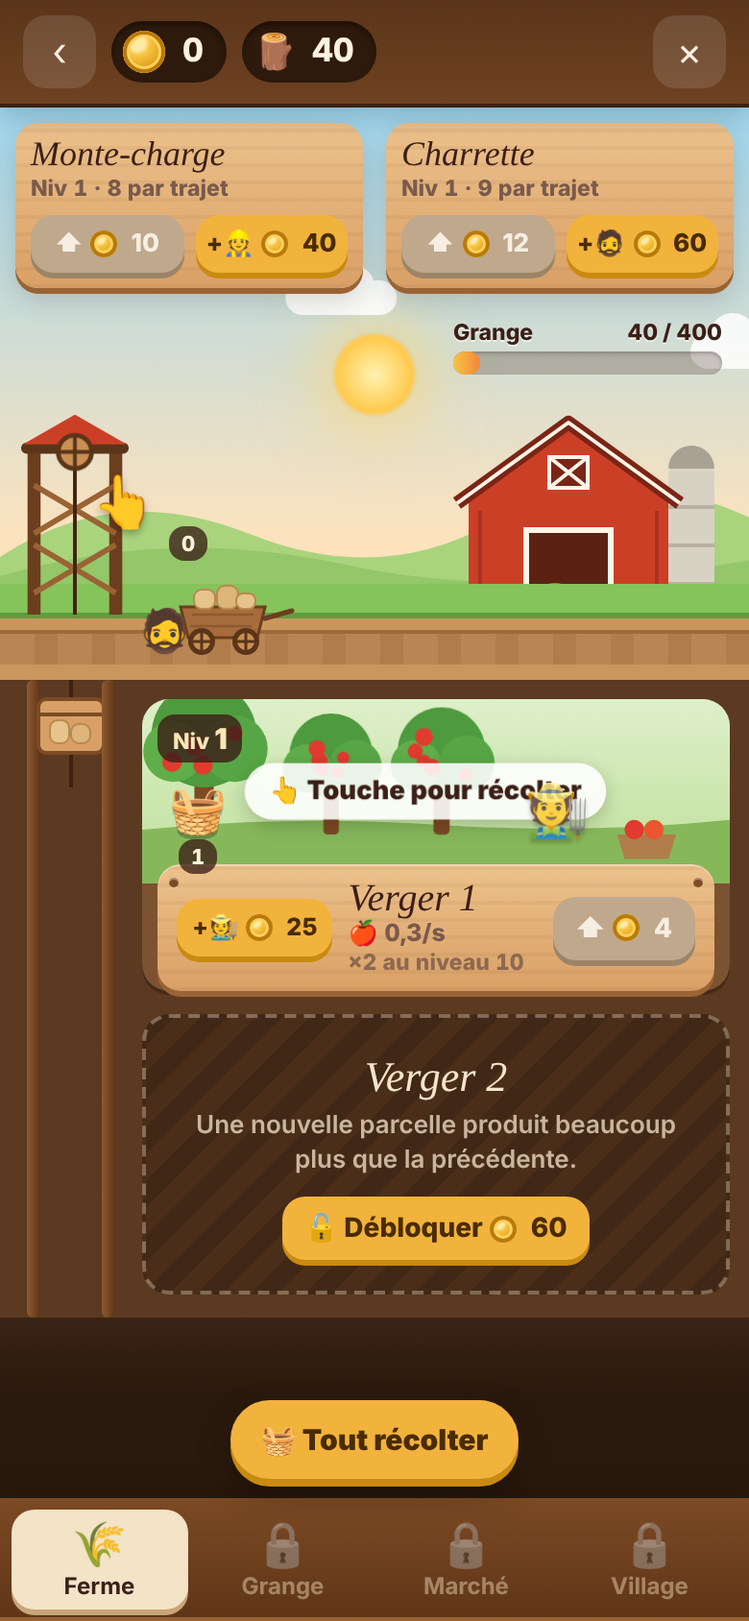
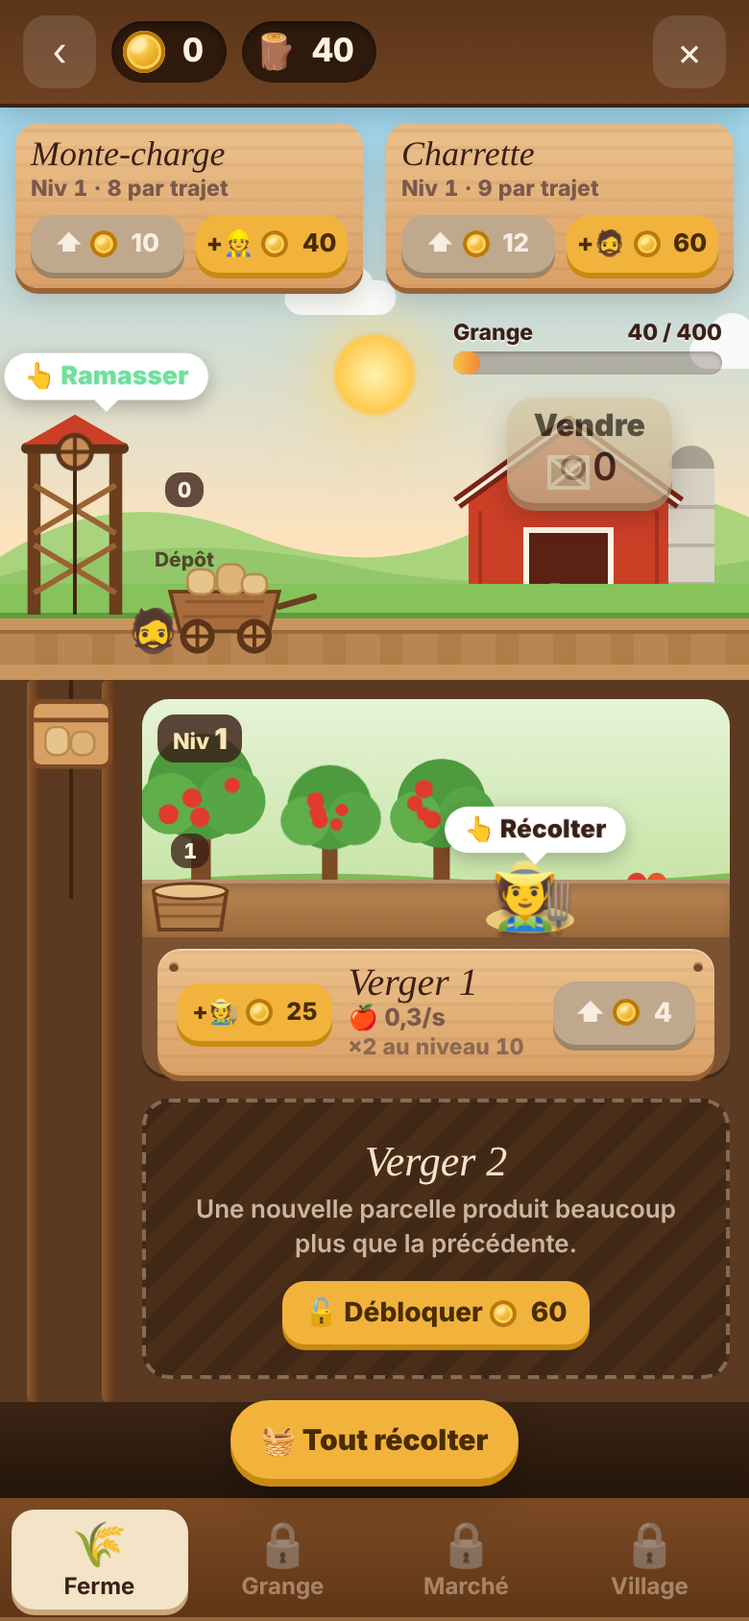
Le Baron v2 : animations de la ferme plus lisibles (chemin dans chaque champ, panier contre le monte-charge, barre de récolte, bulles Récolter / Ramasser / Livrer, produits qui volent d'un poste à l'autre)
Claude-Session: https://claude.ai/code/session_016SqHKL96d9NyDZuzEYmYJY

diff --git a/baron.js b/baron.js
@@ -533,13 +533,6 @@ const STYLE = `
 @keyframes b2-fly{0%{transform:translate(0,0) scale(.6);opacity:0}15%{transform:translate(0,-28px) scale(1.1);opacity:1}100%{transform:translate(var(--dx),var(--dy)) scale(.7);opacity:.9}}
 .b2-float{position:fixed;z-index:95;transform:translateX(-50%);font:900 18px var(--round);color:#fff;text-shadow:0 2px 0 var(--up2),0 0 8px rgba(0,0,0,.25);pointer-events:none;animation:b2-up 1.05s ease forwards}
 .b2-float.small{font-size:14px;color:#FFF3DE;text-shadow:0 1px 0 rgba(0,0,0,.5),0 0 6px rgba(0,0,0,.35)}
-.b2-wk{position:absolute;top:44px;left:66%;width:30px;margin-left:-15px;pointer-events:none;z-index:2;text-align:center}
-.b2-wk .who{display:block;font-size:27px;line-height:1;filter:drop-shadow(0 2px 1px rgba(0,0,0,.25))}
-.b2-wk .carry{position:absolute;left:50%;top:-16px;transform:translateX(-50%);font-size:17px;display:none}
-.b2-wk.go .carry{display:block}
-.b2-wk.work .who{animation:b2-dig .45s ease-in-out infinite alternate;transform-origin:50% 100%}
-.b2-wk.go .who,.b2-wk.back .who{animation:b2-walk .3s ease-in-out infinite alternate}
-.b2-wk.idle{opacity:.85}
 @keyframes b2-dig{to{transform:rotate(-14deg) translateY(2px)}}
 @keyframes b2-walk{to{transform:translateY(-3px)}}
 .b2-float.gold{color:#FFE08A;text-shadow:0 2px 0 #9B6700}
@@ -598,7 +591,7 @@ const STYLE = `
 @keyframes b2-blink{50%{opacity:.55}}
 .b2-glab{display:flex;justify-content:space-between;font:800 11.5px var(--round);color:var(--ink);margin-bottom:3px;text-shadow:0 1px 0 rgba(255,255,255,.6)}
 .b2-cartlane{position:absolute;left:74px;right:118px;bottom:12px;height:50px;padding:0!important;z-index:1}
-.b2-cart{position:absolute;left:18px;bottom:0;width:62px;will-change:transform}
+.b2-cart{position:absolute;left:12px;bottom:0;width:80px;will-change:transform}
 .b2-cart .ld{position:absolute;left:50%;top:-20px;transform:translateX(-50%);background:var(--ink);color:#FFE6B8;border-radius:7px;padding:1px 6px;font:900 11.5px var(--round);transition:opacity .2s;white-space:nowrap}
 .b2-cart .pusher{position:absolute;left:-20px;bottom:2px;font-size:22px;line-height:1}
 .b2-cart.back .pusher{left:auto;right:-20px}
@@ -610,7 +603,8 @@ const STYLE = `
 
 @keyframes b2-spin{to{transform:rotate(360deg)}}
 
-.b2-quai{position:absolute;left:70px;bottom:60px;width:56px;text-align:center;pointer-events:none;z-index:2}
+.b2-quai{position:absolute;left:68px;bottom:56px;width:56px;text-align:center;pointer-events:none;z-index:2}
+.b2-quai small{display:block;font:800 10.5px var(--round);color:var(--ink);opacity:.75;margin-top:1px}
 .b2-quai .sacks{display:flex;flex-wrap:wrap-reverse;justify-content:center;gap:1px;min-height:18px}
 .b2-quai .sk{width:13px;height:11px;border-radius:5px 5px 4px 4px;background:#E7C48B;box-shadow:inset 0 -2px 0 #C79B5C}
 .b2-tag{display:inline-block;background:rgba(59,31,23,.78);color:#FFF3DE;border-radius:8px;padding:2px 6px;font:800 11px var(--round);font-variant-numeric:tabular-nums}
@@ -659,9 +653,6 @@ const STYLE = `
 .b2-tower svg{display:block;width:100%}
 .b2-tower .pulley{transform-box:fill-box;transform-origin:center;animation:b2-spin 1.4s linear infinite}
 .b2-tower.idle .pulley{animation-play-state:paused}
-.b2-hand{position:absolute;font-size:28px;line-height:1;pointer-events:none;filter:drop-shadow(0 2px 2px rgba(0,0,0,.3));animation:b2-tap 1.1s ease-in-out infinite;z-index:4}
-.b2-tower .b2-hand{right:-14px;top:30px}
-.b2-cartlane .b2-hand{left:22px;top:-20px}
 @keyframes b2-tap{0%,100%{transform:translateY(0)}50%{transform:translateY(7px) scale(.92)}}
 .b2-plot .b2-sign .sp{cursor:pointer}
 .b2-stat > div{display:flex;align-items:baseline;gap:8px;padding:8px 0;border-bottom:1px solid rgba(59,31,23,.1);font:700 14px var(--round);font-variant-numeric:tabular-nums}
@@ -682,22 +673,43 @@ const STYLE = `
 .b2-rail::before,.b2-rail::after{content:"";position:absolute;top:0;bottom:0;width:7px;background:linear-gradient(90deg,#8C5A30,#5E3517);border-radius:3px}
 .b2-rail::before{left:2px}.b2-rail::after{right:2px}
 .b2-rail .rope{position:absolute;left:24px;top:0;width:2px;height:var(--rope,40px);background:#3E220F}
-.b2-cab{position:absolute;left:6px;top:4px;width:38px;height:36px;will-change:transform}
+.b2-cab{position:absolute;left:2px;top:4px;width:46px;height:44px;will-change:transform;z-index:2}
 .b2-cab .ld{position:absolute;left:50%;top:-16px;transform:translateX(-50%);background:var(--ink);color:#FFE6B8;border-radius:7px;padding:1px 5px;font:900 11px var(--round);transition:opacity .2s;white-space:nowrap;z-index:2}
 
 .b2-cab svg{display:block;width:100%}
 .b2-elev{margin:0 0 10px -62px}
 .b2-plot{position:relative;margin-bottom:12px;border-radius:14px;background:var(--soil,#8A5A33);box-shadow:inset 0 2px 0 rgba(255,255,255,.08),0 2px 0 rgba(0,0,0,.25)}
-.b2-plot .art{display:block;width:100%;height:96px;border-radius:14px 14px 0 0;overflow:hidden}
+.b2-plot .art{position:relative;display:block;width:100%;height:124px;border-radius:14px 14px 0 0;overflow:hidden}
 .b2-plot .art svg{display:block;width:100%;height:100%}
 .b2-plot.idle .art svg *{animation-play-state:paused!important}
-.b2-plot .b2-sign{margin:-10px 8px 8px}
-.b2-plot .pend{position:absolute;left:4px;top:46px;width:50px;text-align:center;z-index:3;pointer-events:none}
-.b2-plot .pend .b2-tag.warn{animation:b2-blink 1s infinite}
-.b2-plot .pend .bag{font-size:24px;line-height:1;filter:drop-shadow(0 2px 0 rgba(0,0,0,.25))}
-.b2-plot .tapme{position:absolute;inset:0 0 auto 0;height:96px;display:grid;place-items:center start;padding-left:58px;pointer-events:none}
-.b2-plot .tapme span{background:rgba(255,255,255,.88);border-radius:999px;padding:6px 12px;font:900 13px var(--round);color:var(--ink);box-shadow:0 3px 10px rgba(0,0,0,.2);animation:b2-hint 1.4s ease-in-out infinite}
+.b2-plot .b2-sign{margin:6px 8px 8px}
 @keyframes b2-hint{50%{transform:scale(1.07)}}
+.b2-path{position:absolute;left:0;right:0;bottom:0;height:30px;background:linear-gradient(#B98552,#9C6A3B);border-top:2px solid rgba(255,255,255,.25);box-shadow:inset 0 3px 4px rgba(0,0,0,.15)}
+.b2-plot .pend{position:absolute;left:2px;bottom:2px;width:46px;text-align:center;z-index:3;pointer-events:none}
+.b2-plot .pend svg{display:block;width:44px;margin:0 auto}
+.b2-plot .pend .b2-tag{position:relative;top:-2px}
+.b2-plot .pend .b2-tag.warn{animation:b2-blink 1s infinite}
+.b2-wk{position:absolute;bottom:4px;left:66%;width:40px;margin-left:-20px;pointer-events:none;z-index:4;text-align:center}
+.b2-wk .who{display:block;font-size:34px;line-height:1;filter:drop-shadow(0 3px 1px rgba(0,0,0,.3))}
+.b2-wk .carry{position:absolute;left:50%;top:-20px;transform:translateX(-50%);font-size:24px;display:none;filter:drop-shadow(0 2px 1px rgba(0,0,0,.3))}
+.b2-wk.go .carry{display:block}
+.b2-wk.go .who{transform:scaleX(1)}
+.b2-wk.back .who{transform:scaleX(-1)}
+.b2-wk .bar{position:absolute;left:2px;right:2px;top:-12px;height:7px;border-radius:9px;background:rgba(59,31,23,.45);overflow:hidden;opacity:0;transition:opacity .15s}
+.b2-wk .bar i{display:block;height:100%;width:0;background:linear-gradient(90deg,#9BE07A,#3FAF4E);border-radius:9px}
+.b2-wk.work .bar{opacity:1}
+.b2-wk.work .who{animation:b2-dig .4s ease-in-out infinite alternate;transform-origin:50% 100%}
+.b2-wk.go .who,.b2-wk.back .who{animation:b2-walk .28s ease-in-out infinite alternate}
+.b2-call{display:none;position:absolute;left:50%;bottom:calc(100% + 6px);transform:translateX(-50%);white-space:nowrap;background:#fff;color:var(--ink);border-radius:999px;padding:4px 10px;font:900 13px var(--round);box-shadow:0 3px 10px rgba(0,0,0,.25);animation:b2-hint 1.2s ease-in-out infinite;pointer-events:none;z-index:6}
+.b2-call::after{content:"";position:absolute;left:50%;top:100%;margin-left:-6px;border:6px solid transparent;border-top-color:#fff}
+.b2-wk.tap .b2-call{display:block}
+.b2-wk.tap .who{animation:b2-hint 1.2s ease-in-out infinite}
+.b2-wk.tap::before{content:"";position:absolute;left:50%;bottom:-2px;width:46px;height:14px;margin-left:-23px;border-radius:50%;background:rgba(255,224,138,.8);animation:b2-blink 1.1s infinite}
+.b2-call.up{display:block}
+.b2-tower .b2-call{left:50%;bottom:auto;top:-30px}
+.b2-cart .b2-call{bottom:calc(100% + 18px)}
+.b2-good{position:fixed;z-index:94;font-size:20px;pointer-events:none;animation:b2-good .8s cubic-bezier(.4,0,.3,1) forwards}
+@keyframes b2-good{0%{transform:translate(0,0) scale(.7);opacity:0}15%{opacity:1;transform:translate(0,-10px) scale(1.1)}100%{transform:translate(var(--dx),var(--dy)) scale(.8);opacity:.6}}
 .b2-plvl{position:absolute;left:8px;top:8px;background:rgba(59,31,23,.82);color:#FFE6B8;border-radius:9px;padding:3px 8px;font:800 11.5px var(--round);pointer-events:none}
 .b2-plvl b{font-size:15px;font-weight:900}
 .b2-plot .runbar{position:absolute;left:0;top:0;height:4px;border-radius:14px 0 0 0;background:#FFE08A;transition:width .25s linear}
@@ -987,6 +999,7 @@ const TOWER = `<svg viewBox="0 0 60 110" aria-hidden="true"><path d="M8 20 L8 11
   <path d="M8 40 L52 66 M52 40 L8 66 M8 72 L52 98 M52 72 L8 98" stroke="#9A6334" stroke-width="3"/><path d="M4 20 H56" stroke="#5B3519" stroke-width="6" stroke-linecap="round"/>
   <path d="M2 18 L30 2 L58 18Z" fill="#CC3F27"/><path d="M30 28 V110" stroke="#3E220F" stroke-width="2"/>
   <g class="pulley"><circle cx="30" cy="22" r="9" fill="#C98F55" stroke="#5B3519" stroke-width="2.5"/><path d="M30 14 V30 M22 22 H38" stroke="#5B3519" stroke-width="2"/></g></svg>`;
+const CRATE = `<svg viewBox="0 0 44 30" aria-hidden="true"><path d="M3 8 h38 l-3 20 h-32z" fill="#B07D4A" stroke="#6B3E1E" stroke-width="2"/><path d="M5 15 h34 M6 21 h32" stroke="#8C5A30" stroke-width="1.6"/><ellipse cx="22" cy="8" rx="19" ry="4" fill="#E7C48B" stroke="#6B3E1E" stroke-width="1.5"/></svg>`;
 const CABIN = `<svg viewBox="0 0 38 36" aria-hidden="true"><path d="M19 0 v6" stroke="#3E220F" stroke-width="2"/><rect x="2" y="6" width="34" height="28" rx="4" fill="#D9A066" stroke="#7C4A24" stroke-width="2"/><path d="M2 14 h34" stroke="#7C4A24" stroke-width="2"/><rect x="8" y="17" width="10" height="12" rx="4" fill="#E7C48B" stroke="#B88A50"/><rect x="19" y="19" width="10" height="10" rx="4" fill="#DDB57A" stroke="#B88A50"/></svg>`;
 function ovenArt(hot){
   return `<svg viewBox="0 0 120 100" aria-hidden="true"><rect x="52" y="0" width="16" height="30" fill="#8C7B6B"/><rect x="49" y="0" width="22" height="5" fill="#6E5F51"/>
@@ -1078,7 +1091,7 @@ function loop(){
 let geo = null;
 function measure(){
   const sh = wrapEl && wrapEl.querySelector(".b2-shaft"); if (!sh){ geo = null; return; }
-  const ys = [0]; wrapEl.querySelectorAll(".b2-plot").forEach(el => ys.push(el.offsetTop + 22));
+  const ys = [0]; wrapEl.querySelectorAll(".b2-plot").forEach(el => ys.push(el.offsetTop + 80));
   const lane = wrapEl.querySelector(".b2-cartlane");
   geo = { ys, lane: lane ? Math.max(40, lane.clientWidth - 72) : 100 };
   const rope = wrapEl.querySelector(".b2-rail .rope"); if (rope) rope.style.height = (ys[ys.length - 1] + 24) + "px";
@@ -1088,9 +1101,11 @@ function animate(){
   const f = S.farms[S.cur]; if (!f) return;
   f.parcels.forEach((p, i) => {
     const w = wrapEl.querySelector(`[data-wk="${i}"]`); if (!w) return;
-    const k = Math.min(1, p.t / BAL.walk);
-    const x = p.ph === "go" ? 70 - 52 * k : p.ph === "back" ? 18 + 52 * k : 70;
-    w.style.left = x + "%"; const cls = "b2-wk " + p.ph; if (w.className !== cls) w.className = cls;
+    const k = Math.min(1, p.t / BAL.walk), sm = k * k * (3 - 2 * k);
+    const x = p.ph === "go" ? 66 - 44 * sm : p.ph === "back" ? 22 + 44 * sm : 66;
+    w.style.left = x + "%";
+    const cls = "b2-wk " + p.ph + (p.ph === "idle" && !p.mgr ? " tap" : "") + (p.mgr ? " mgr" : ""); if (w.className !== cls) w.className = cls;
+    const bar = w.firstElementChild.firstElementChild; if (bar) bar.style.width = (p.ph === "work" ? Math.min(100, p.t / BAL.work * 100) : 0) + "%";
   });
   const e = f.elev, cab = wrapEl.querySelector(".b2-cab");
   if (cab){
@@ -1111,13 +1126,27 @@ function pop(el, text, key){
   const t = now(); if (lastPop[key] && t - lastPop[key] < 700) return; lastPop[key] = t;
   floatText(el, text, "small");
 }
+function flyGoods(from, to, e, n){
+  try{
+    if (!from || !to) return;
+    const a = from.getBoundingClientRect(), b = to.getBoundingClientRect();
+    if (a.bottom < 0 || a.top > innerHeight) return;
+    for (let j = 0; j < (n || 3); j++){
+      const g = document.createElement("span"); g.className = "b2-good"; g.textContent = e;
+      g.style.left = (a.left + a.width / 2 - 10) + "px"; g.style.top = (a.top + a.height / 2 - 10) + "px";
+      g.style.setProperty("--dx", (b.left + b.width / 2 - a.left - a.width / 2) + "px"); g.style.setProperty("--dy", (b.top + b.height / 2 - a.top - a.height / 2) + "px");
+      g.style.animationDelay = (j * 90) + "ms"; document.body.appendChild(g); setTimeout(() => g.remove(), 900 + j * 90);
+    }
+  }catch(_){}
+}
 function showEvents(ev){
   ev.forEach(x => {
     if (x.key !== S.cur) return;
-    if (x.k === "drop"){ const el = wrapEl.querySelector(`[data-plot="${x.i}"] .pend`); if (el){ pop(el, "+" + fmtN(x.amt, 1), "d" + x.i); bounce(el.querySelector(".bag")); } }
-    if (x.k === "lift"){ const el = wrapEl.querySelector(".b2-cab"); if (el) pop(el, "+" + fmtN(x.amt, 1), "l"); }
-    if (x.k === "top"){ const el = wrapEl.querySelector(".b2-quai"); if (el) pop(el, "+" + fmtN(x.amt, 1), "t"); }
-    if (x.k === "barn"){ const el = wrapEl.querySelector(".b2-barn"); if (el){ pop(el, "+" + fmtN(x.amt, 1) + " " + P[x.key].e, "b"); bounce(el); } }
+    const e = P[x.key].e;
+    if (x.k === "drop"){ const el = wrapEl.querySelector(`[data-plot="${x.i}"] .pend`); if (el){ pop(el, "+" + fmtN(x.amt, 1), "d" + x.i); bounce(el.querySelector("svg")); } }
+    if (x.k === "lift"){ const from = wrapEl.querySelector(`[data-plot="${x.i}"] .pend`), cab = wrapEl.querySelector(".b2-cab"); flyGoods(from, cab, e, 3); if (cab) pop(cab, "+" + fmtN(x.amt, 1), "l"); }
+    if (x.k === "top"){ const cab = wrapEl.querySelector(".b2-cab"), q = wrapEl.querySelector(".b2-quai"); flyGoods(wrapEl.querySelector(".b2-tower"), q, e, 3); if (q) pop(q, "+" + fmtN(x.amt, 1), "t"); }
+    if (x.k === "barn"){ const el = wrapEl.querySelector(".b2-barn"); flyGoods(wrapEl.querySelector(".b2-cart"), el, e, 4); if (el){ pop(el, "+" + fmtN(x.amt, 1) + " " + e, "b"); bounce(el); } }
   });
 }
 document.addEventListener("visibilitychange", () => { if (document.hidden && S && wrapEl) save(true); else if (!document.hidden && S && wrapEl){ lastTick = now(); } });
@@ -1160,7 +1189,6 @@ function live(force){
       const el = wrapEl.querySelector(`[data-plot="${i}"]`); if (!el) return;
       el.classList.toggle("idle", p.ph === "idle");
       const pe = el.querySelector("[data-pend]"); if (pe) pe.textContent = fmtN(p.pend);
-      const tm = el.querySelector(".tapme"); if (tm) tm.style.display = p.ph === "idle" && !p.mgr ? "" : "none";
       const full = p.pend >= BAL.pendCap(BAL.parcelRate(i, p.lvl) * (f.boost > t ? 2 : 1)) * .98;
       pe && pe.classList.toggle("warn", full);
     });
@@ -1233,9 +1261,10 @@ function farmHTML(){
     const pu = upCost("parcel", f, i), rate = BAL.parcelRate(i, p.lvl) * r.boost;
     const next = BX.MILES.find(m => m > p.lvl);
     return `<div class="b2-plot" data-plot="${i}" style="--soil:${depth(i)}">
-      <div class="pend"><div class="bag">🧺</div><span class="b2-tag" data-pend>${fmtN(p.pend)}</span></div>
-      <div class="art" data-a="tap-parcel" data-i="${i}">${plotArt(key, i, p.lvl)}<div class="b2-wk ${p.ph}" data-wk="${i}"><span class="carry">${pr.e}</span><span class="who">${MGR.parcel}</span></div></div><span class="b2-plvl">Niv <b>${p.lvl}</b></span>
-      <div class="tapme"><span>👆 Touche pour récolter</span></div>
+      <div class="art" data-a="tap-parcel" data-i="${i}">${plotArt(key, i, p.lvl)}<div class="b2-path"></div>
+        <div class="pend"><span class="b2-tag" data-pend>${fmtN(p.pend)}</span>${CRATE}</div>
+        <div class="b2-wk ${p.ph}" data-wk="${i}"><div class="bar"><i></i></div><span class="carry">${pr.e}</span><span class="who">${MGR.parcel}</span><span class="b2-call">👆 Récolter</span></div>
+      </div><span class="b2-plvl">Niv <b>${p.lvl}</b></span>
       <div class="b2-sign"><div class="row">
         ${seatHTML("parcel", p.mgr, BX.nice(BAL.parcelMgr(i)), i)}
         <div class="sp" data-a="station" data-k="parcel" data-i="${i}"><h3>${esc(pr.short)} ${i + 1}</h3>
@@ -1258,9 +1287,9 @@ function farmHTML(){
       <div class="b2-barn" data-a="tab" data-v="barn" data-n="-1"></div>
       <button class="b2-sellbtn" data-a="quick-sell" aria-label="Vendre ta récolte au village"><span class="l">Vendre</span><span class="v">${COIN}<b data-live="sellv">0</b></span></button>
       <div class="b2-ground"></div><div class="b2-road"></div>
-      <button class="b2-tower" data-a="tap-elev" aria-label="Faire monter le monte-charge">${TOWER}<span class="b2-hand" data-hint="elev">👆</span></button>
-      <div class="b2-quai"><div class="sacks" data-n="-1"></div><span class="b2-tag" data-live="quai">${fmtN(f.quai)}</span></div>
-      <button class="b2-cartlane" data-a="tap-cart" aria-label="Faire rouler la charrette"><div class="b2-cart"><span class="ld">0</span>${CART}<span class="pusher">${MGR.cart}</span></div><span class="b2-hand" data-hint="cart">👆</span></button>
+      <button class="b2-tower" data-a="tap-elev" aria-label="Faire monter le monte-charge">${TOWER}<span class="b2-call up" data-hint="elev">👆 Ramasser</span></button>
+      <div class="b2-quai"><span class="b2-tag" data-live="quai">${fmtN(f.quai)}</span><div class="sacks" data-n="-1"></div><small>Dépôt</small></div>
+      <button class="b2-cartlane" data-a="tap-cart" aria-label="Faire rouler la charrette"><div class="b2-cart"><span class="ld">0</span>${CART}<span class="pusher">${MGR.cart}</span><span class="b2-call up" data-hint="cart">👆 Livrer</span></div></button>
     </div>
     ${farmsK.length > 1 ? `<div class="b2-farmsw">${farmsK.map(k => `<button class="${k === key ? "on" : ""}" data-a="farm" data-k="${k}">${P[k].e} ${P[k].label}</button>`).join("")}</div>` : ""}
     ${tip}

diff --git a/.github/baron-src/part-c.js b/.github/baron-src/part-c.js
@@ -31,13 +31,6 @@ const STYLE = `
 @keyframes b2-fly{0%{transform:translate(0,0) scale(.6);opacity:0}15%{transform:translate(0,-28px) scale(1.1);opacity:1}100%{transform:translate(var(--dx),var(--dy)) scale(.7);opacity:.9}}
 .b2-float{position:fixed;z-index:95;transform:translateX(-50%);font:900 18px var(--round);color:#fff;text-shadow:0 2px 0 var(--up2),0 0 8px rgba(0,0,0,.25);pointer-events:none;animation:b2-up 1.05s ease forwards}
 .b2-float.small{font-size:14px;color:#FFF3DE;text-shadow:0 1px 0 rgba(0,0,0,.5),0 0 6px rgba(0,0,0,.35)}
-.b2-wk{position:absolute;top:44px;left:66%;width:30px;margin-left:-15px;pointer-events:none;z-index:2;text-align:center}
-.b2-wk .who{display:block;font-size:27px;line-height:1;filter:drop-shadow(0 2px 1px rgba(0,0,0,.25))}
-.b2-wk .carry{position:absolute;left:50%;top:-16px;transform:translateX(-50%);font-size:17px;display:none}
-.b2-wk.go .carry{display:block}
-.b2-wk.work .who{animation:b2-dig .45s ease-in-out infinite alternate;transform-origin:50% 100%}
-.b2-wk.go .who,.b2-wk.back .who{animation:b2-walk .3s ease-in-out infinite alternate}
-.b2-wk.idle{opacity:.85}
 @keyframes b2-dig{to{transform:rotate(-14deg) translateY(2px)}}
 @keyframes b2-walk{to{transform:translateY(-3px)}}
 .b2-float.gold{color:#FFE08A;text-shadow:0 2px 0 #9B6700}
@@ -96,7 +89,7 @@ const STYLE = `
 @keyframes b2-blink{50%{opacity:.55}}
 .b2-glab{display:flex;justify-content:space-between;font:800 11.5px var(--round);color:var(--ink);margin-bottom:3px;text-shadow:0 1px 0 rgba(255,255,255,.6)}
 .b2-cartlane{position:absolute;left:74px;right:118px;bottom:12px;height:50px;padding:0!important;z-index:1}
-.b2-cart{position:absolute;left:18px;bottom:0;width:62px;will-change:transform}
+.b2-cart{position:absolute;left:12px;bottom:0;width:80px;will-change:transform}
 .b2-cart .ld{position:absolute;left:50%;top:-20px;transform:translateX(-50%);background:var(--ink);color:#FFE6B8;border-radius:7px;padding:1px 6px;font:900 11.5px var(--round);transition:opacity .2s;white-space:nowrap}
 .b2-cart .pusher{position:absolute;left:-20px;bottom:2px;font-size:22px;line-height:1}
 .b2-cart.back .pusher{left:auto;right:-20px}
@@ -108,7 +101,8 @@ const STYLE = `
 
 @keyframes b2-spin{to{transform:rotate(360deg)}}
 
-.b2-quai{position:absolute;left:70px;bottom:60px;width:56px;text-align:center;pointer-events:none;z-index:2}
+.b2-quai{position:absolute;left:68px;bottom:56px;width:56px;text-align:center;pointer-events:none;z-index:2}
+.b2-quai small{display:block;font:800 10.5px var(--round);color:var(--ink);opacity:.75;margin-top:1px}
 .b2-quai .sacks{display:flex;flex-wrap:wrap-reverse;justify-content:center;gap:1px;min-height:18px}
 .b2-quai .sk{width:13px;height:11px;border-radius:5px 5px 4px 4px;background:#E7C48B;box-shadow:inset 0 -2px 0 #C79B5C}
 .b2-tag{display:inline-block;background:rgba(59,31,23,.78);color:#FFF3DE;border-radius:8px;padding:2px 6px;font:800 11px var(--round);font-variant-numeric:tabular-nums}
@@ -157,9 +151,6 @@ const STYLE = `
 .b2-tower svg{display:block;width:100%}
 .b2-tower .pulley{transform-box:fill-box;transform-origin:center;animation:b2-spin 1.4s linear infinite}
 .b2-tower.idle .pulley{animation-play-state:paused}
-.b2-hand{position:absolute;font-size:28px;line-height:1;pointer-events:none;filter:drop-shadow(0 2px 2px rgba(0,0,0,.3));animation:b2-tap 1.1s ease-in-out infinite;z-index:4}
-.b2-tower .b2-hand{right:-14px;top:30px}
-.b2-cartlane .b2-hand{left:22px;top:-20px}
 @keyframes b2-tap{0%,100%{transform:translateY(0)}50%{transform:translateY(7px) scale(.92)}}
 .b2-plot .b2-sign .sp{cursor:pointer}
 .b2-stat > div{display:flex;align-items:baseline;gap:8px;padding:8px 0;border-bottom:1px solid rgba(59,31,23,.1);font:700 14px var(--round);font-variant-numeric:tabular-nums}
@@ -180,22 +171,43 @@ const STYLE = `
 .b2-rail::before,.b2-rail::after{content:"";position:absolute;top:0;bottom:0;width:7px;background:linear-gradient(90deg,#8C5A30,#5E3517);border-radius:3px}
 .b2-rail::before{left:2px}.b2-rail::after{right:2px}
 .b2-rail .rope{position:absolute;left:24px;top:0;width:2px;height:var(--rope,40px);background:#3E220F}
-.b2-cab{position:absolute;left:6px;top:4px;width:38px;height:36px;will-change:transform}
+.b2-cab{position:absolute;left:2px;top:4px;width:46px;height:44px;will-change:transform;z-index:2}
 .b2-cab .ld{position:absolute;left:50%;top:-16px;transform:translateX(-50%);background:var(--ink);color:#FFE6B8;border-radius:7px;padding:1px 5px;font:900 11px var(--round);transition:opacity .2s;white-space:nowrap;z-index:2}
 
 .b2-cab svg{display:block;width:100%}
 .b2-elev{margin:0 0 10px -62px}
 .b2-plot{position:relative;margin-bottom:12px;border-radius:14px;background:var(--soil,#8A5A33);box-shadow:inset 0 2px 0 rgba(255,255,255,.08),0 2px 0 rgba(0,0,0,.25)}
-.b2-plot .art{display:block;width:100%;height:96px;border-radius:14px 14px 0 0;overflow:hidden}
+.b2-plot .art{position:relative;display:block;width:100%;height:124px;border-radius:14px 14px 0 0;overflow:hidden}
 .b2-plot .art svg{display:block;width:100%;height:100%}
 .b2-plot.idle .art svg *{animation-play-state:paused!important}
-.b2-plot .b2-sign{margin:-10px 8px 8px}
-.b2-plot .pend{position:absolute;left:4px;top:46px;width:50px;text-align:center;z-index:3;pointer-events:none}
-.b2-plot .pend .b2-tag.warn{animation:b2-blink 1s infinite}
-.b2-plot .pend .bag{font-size:24px;line-height:1;filter:drop-shadow(0 2px 0 rgba(0,0,0,.25))}
-.b2-plot .tapme{position:absolute;inset:0 0 auto 0;height:96px;display:grid;place-items:center start;padding-left:58px;pointer-events:none}
-.b2-plot .tapme span{background:rgba(255,255,255,.88);border-radius:999px;padding:6px 12px;font:900 13px var(--round);color:var(--ink);box-shadow:0 3px 10px rgba(0,0,0,.2);animation:b2-hint 1.4s ease-in-out infinite}
+.b2-plot .b2-sign{margin:6px 8px 8px}
 @keyframes b2-hint{50%{transform:scale(1.07)}}
+.b2-path{position:absolute;left:0;right:0;bottom:0;height:30px;background:linear-gradient(#B98552,#9C6A3B);border-top:2px solid rgba(255,255,255,.25);box-shadow:inset 0 3px 4px rgba(0,0,0,.15)}
+.b2-plot .pend{position:absolute;left:2px;bottom:2px;width:46px;text-align:center;z-index:3;pointer-events:none}
+.b2-plot .pend svg{display:block;width:44px;margin:0 auto}
+.b2-plot .pend .b2-tag{position:relative;top:-2px}
+.b2-plot .pend .b2-tag.warn{animation:b2-blink 1s infinite}
+.b2-wk{position:absolute;bottom:4px;left:66%;width:40px;margin-left:-20px;pointer-events:none;z-index:4;text-align:center}
+.b2-wk .who{display:block;font-size:34px;line-height:1;filter:drop-shadow(0 3px 1px rgba(0,0,0,.3))}
+.b2-wk .carry{position:absolute;left:50%;top:-20px;transform:translateX(-50%);font-size:24px;display:none;filter:drop-shadow(0 2px 1px rgba(0,0,0,.3))}
+.b2-wk.go .carry{display:block}
+.b2-wk.go .who{transform:scaleX(1)}
+.b2-wk.back .who{transform:scaleX(-1)}
+.b2-wk .bar{position:absolute;left:2px;right:2px;top:-12px;height:7px;border-radius:9px;background:rgba(59,31,23,.45);overflow:hidden;opacity:0;transition:opacity .15s}
+.b2-wk .bar i{display:block;height:100%;width:0;background:linear-gradient(90deg,#9BE07A,#3FAF4E);border-radius:9px}
+.b2-wk.work .bar{opacity:1}
+.b2-wk.work .who{animation:b2-dig .4s ease-in-out infinite alternate;transform-origin:50% 100%}
+.b2-wk.go .who,.b2-wk.back .who{animation:b2-walk .28s ease-in-out infinite alternate}
+.b2-call{display:none;position:absolute;left:50%;bottom:calc(100% + 6px);transform:translateX(-50%);white-space:nowrap;background:#fff;color:var(--ink);border-radius:999px;padding:4px 10px;font:900 13px var(--round);box-shadow:0 3px 10px rgba(0,0,0,.25);animation:b2-hint 1.2s ease-in-out infinite;pointer-events:none;z-index:6}
+.b2-call::after{content:"";position:absolute;left:50%;top:100%;margin-left:-6px;border:6px solid transparent;border-top-color:#fff}
+.b2-wk.tap .b2-call{display:block}
+.b2-wk.tap .who{animation:b2-hint 1.2s ease-in-out infinite}
+.b2-wk.tap::before{content:"";position:absolute;left:50%;bottom:-2px;width:46px;height:14px;margin-left:-23px;border-radius:50%;background:rgba(255,224,138,.8);animation:b2-blink 1.1s infinite}
+.b2-call.up{display:block}
+.b2-tower .b2-call{left:50%;bottom:auto;top:-30px}
+.b2-cart .b2-call{bottom:calc(100% + 18px)}
+.b2-good{position:fixed;z-index:94;font-size:20px;pointer-events:none;animation:b2-good .8s cubic-bezier(.4,0,.3,1) forwards}
+@keyframes b2-good{0%{transform:translate(0,0) scale(.7);opacity:0}15%{opacity:1;transform:translate(0,-10px) scale(1.1)}100%{transform:translate(var(--dx),var(--dy)) scale(.8);opacity:.6}}
 .b2-plvl{position:absolute;left:8px;top:8px;background:rgba(59,31,23,.82);color:#FFE6B8;border-radius:9px;padding:3px 8px;font:800 11.5px var(--round);pointer-events:none}
 .b2-plvl b{font-size:15px;font-weight:900}
 .b2-plot .runbar{position:absolute;left:0;top:0;height:4px;border-radius:14px 0 0 0;background:#FFE08A;transition:width .25s linear}
@@ -485,6 +497,7 @@ const TOWER = `<svg viewBox="0 0 60 110" aria-hidden="true"><path d="M8 20 L8 11
   <path d="M8 40 L52 66 M52 40 L8 66 M8 72 L52 98 M52 72 L8 98" stroke="#9A6334" stroke-width="3"/><path d="M4 20 H56" stroke="#5B3519" stroke-width="6" stroke-linecap="round"/>
   <path d="M2 18 L30 2 L58 18Z" fill="#CC3F27"/><path d="M30 28 V110" stroke="#3E220F" stroke-width="2"/>
   <g class="pulley"><circle cx="30" cy="22" r="9" fill="#C98F55" stroke="#5B3519" stroke-width="2.5"/><path d="M30 14 V30 M22 22 H38" stroke="#5B3519" stroke-width="2"/></g></svg>`;
+const CRATE = `<svg viewBox="0 0 44 30" aria-hidden="true"><path d="M3 8 h38 l-3 20 h-32z" fill="#B07D4A" stroke="#6B3E1E" stroke-width="2"/><path d="M5 15 h34 M6 21 h32" stroke="#8C5A30" stroke-width="1.6"/><ellipse cx="22" cy="8" rx="19" ry="4" fill="#E7C48B" stroke="#6B3E1E" stroke-width="1.5"/></svg>`;
 const CABIN = `<svg viewBox="0 0 38 36" aria-hidden="true"><path d="M19 0 v6" stroke="#3E220F" stroke-width="2"/><rect x="2" y="6" width="34" height="28" rx="4" fill="#D9A066" stroke="#7C4A24" stroke-width="2"/><path d="M2 14 h34" stroke="#7C4A24" stroke-width="2"/><rect x="8" y="17" width="10" height="12" rx="4" fill="#E7C48B" stroke="#B88A50"/><rect x="19" y="19" width="10" height="10" rx="4" fill="#DDB57A" stroke="#B88A50"/></svg>`;
 function ovenArt(hot){
   return `<svg viewBox="0 0 120 100" aria-hidden="true"><rect x="52" y="0" width="16" height="30" fill="#8C7B6B"/><rect x="49" y="0" width="22" height="5" fill="#6E5F51"/>

diff --git a/.github/baron-src/part-d.js b/.github/baron-src/part-d.js
@@ -79,7 +79,7 @@ function loop(){
 let geo = null;
 function measure(){
   const sh = wrapEl && wrapEl.querySelector(".b2-shaft"); if (!sh){ geo = null; return; }
-  const ys = [0]; wrapEl.querySelectorAll(".b2-plot").forEach(el => ys.push(el.offsetTop + 22));
+  const ys = [0]; wrapEl.querySelectorAll(".b2-plot").forEach(el => ys.push(el.offsetTop + 80));
   const lane = wrapEl.querySelector(".b2-cartlane");
   geo = { ys, lane: lane ? Math.max(40, lane.clientWidth - 72) : 100 };
   const rope = wrapEl.querySelector(".b2-rail .rope"); if (rope) rope.style.height = (ys[ys.length - 1] + 24) + "px";
@@ -89,9 +89,11 @@ function animate(){
   const f = S.farms[S.cur]; if (!f) return;
   f.parcels.forEach((p, i) => {
     const w = wrapEl.querySelector(`[data-wk="${i}"]`); if (!w) return;
-    const k = Math.min(1, p.t / BAL.walk);
-    const x = p.ph === "go" ? 70 - 52 * k : p.ph === "back" ? 18 + 52 * k : 70;
-    w.style.left = x + "%"; const cls = "b2-wk " + p.ph; if (w.className !== cls) w.className = cls;
+    const k = Math.min(1, p.t / BAL.walk), sm = k * k * (3 - 2 * k);
+    const x = p.ph === "go" ? 66 - 44 * sm : p.ph === "back" ? 22 + 44 * sm : 66;
+    w.style.left = x + "%";
+    const cls = "b2-wk " + p.ph + (p.ph === "idle" && !p.mgr ? " tap" : "") + (p.mgr ? " mgr" : ""); if (w.className !== cls) w.className = cls;
+    const bar = w.firstElementChild.firstElementChild; if (bar) bar.style.width = (p.ph === "work" ? Math.min(100, p.t / BAL.work * 100) : 0) + "%";
   });
   const e = f.elev, cab = wrapEl.querySelector(".b2-cab");
   if (cab){
@@ -112,13 +114,27 @@ function pop(el, text, key){
   const t = now(); if (lastPop[key] && t - lastPop[key] < 700) return; lastPop[key] = t;
   floatText(el, text, "small");
 }
+function flyGoods(from, to, e, n){
+  try{
+    if (!from || !to) return;
+    const a = from.getBoundingClientRect(), b = to.getBoundingClientRect();
+    if (a.bottom < 0 || a.top > innerHeight) return;
+    for (let j = 0; j < (n || 3); j++){
+      const g = document.createElement("span"); g.className = "b2-good"; g.textContent = e;
+      g.style.left = (a.left + a.width / 2 - 10) + "px"; g.style.top = (a.top + a.height / 2 - 10) + "px";
+      g.style.setProperty("--dx", (b.left + b.width / 2 - a.left - a.width / 2) + "px"); g.style.setProperty("--dy", (b.top + b.height / 2 - a.top - a.height / 2) + "px");
+      g.style.animationDelay = (j * 90) + "ms"; document.body.appendChild(g); setTimeout(() => g.remove(), 900 + j * 90);
+    }
+  }catch(_){}
+}
 function showEvents(ev){
   ev.forEach(x => {
     if (x.key !== S.cur) return;
-    if (x.k === "drop"){ const el = wrapEl.querySelector(`[data-plot="${x.i}"] .pend`); if (el){ pop(el, "+" + fmtN(x.amt, 1), "d" + x.i); bounce(el.querySelector(".bag")); } }
-    if (x.k === "lift"){ const el = wrapEl.querySelector(".b2-cab"); if (el) pop(el, "+" + fmtN(x.amt, 1), "l"); }
-    if (x.k === "top"){ const el = wrapEl.querySelector(".b2-quai"); if (el) pop(el, "+" + fmtN(x.amt, 1), "t"); }
-    if (x.k === "barn"){ const el = wrapEl.querySelector(".b2-barn"); if (el){ pop(el, "+" + fmtN(x.amt, 1) + " " + P[x.key].e, "b"); bounce(el); } }
+    const e = P[x.key].e;
+    if (x.k === "drop"){ const el = wrapEl.querySelector(`[data-plot="${x.i}"] .pend`); if (el){ pop(el, "+" + fmtN(x.amt, 1), "d" + x.i); bounce(el.querySelector("svg")); } }
+    if (x.k === "lift"){ const from = wrapEl.querySelector(`[data-plot="${x.i}"] .pend`), cab = wrapEl.querySelector(".b2-cab"); flyGoods(from, cab, e, 3); if (cab) pop(cab, "+" + fmtN(x.amt, 1), "l"); }
+    if (x.k === "top"){ const cab = wrapEl.querySelector(".b2-cab"), q = wrapEl.querySelector(".b2-quai"); flyGoods(wrapEl.querySelector(".b2-tower"), q, e, 3); if (q) pop(q, "+" + fmtN(x.amt, 1), "t"); }
+    if (x.k === "barn"){ const el = wrapEl.querySelector(".b2-barn"); flyGoods(wrapEl.querySelector(".b2-cart"), el, e, 4); if (el){ pop(el, "+" + fmtN(x.amt, 1) + " " + e, "b"); bounce(el); } }
   });
 }
 document.addEventListener("visibilitychange", () => { if (document.hidden && S && wrapEl) save(true); else if (!document.hidden && S && wrapEl){ lastTick = now(); } });
@@ -161,7 +177,6 @@ function live(force){
       const el = wrapEl.querySelector(`[data-plot="${i}"]`); if (!el) return;
       el.classList.toggle("idle", p.ph === "idle");
       const pe = el.querySelector("[data-pend]"); if (pe) pe.textContent = fmtN(p.pend);
-      const tm = el.querySelector(".tapme"); if (tm) tm.style.display = p.ph === "idle" && !p.mgr ? "" : "none";
       const full = p.pend >= BAL.pendCap(BAL.parcelRate(i, p.lvl) * (f.boost > t ? 2 : 1)) * .98;
       pe && pe.classList.toggle("warn", full);
     });
@@ -234,9 +249,10 @@ function farmHTML(){
     const pu = upCost("parcel", f, i), rate = BAL.parcelRate(i, p.lvl) * r.boost;
     const next = BX.MILES.find(m => m > p.lvl);
     return `<div class="b2-plot" data-plot="${i}" style="--soil:${depth(i)}">
-      <div class="pend"><div class="bag">🧺</div><span class="b2-tag" data-pend>${fmtN(p.pend)}</span></div>
-      <div class="art" data-a="tap-parcel" data-i="${i}">${plotArt(key, i, p.lvl)}<div class="b2-wk ${p.ph}" data-wk="${i}"><span class="carry">${pr.e}</span><span class="who">${MGR.parcel}</span></div></div><span class="b2-plvl">Niv <b>${p.lvl}</b></span>
-      <div class="tapme"><span>👆 Touche pour récolter</span></div>
+      <div class="art" data-a="tap-parcel" data-i="${i}">${plotArt(key, i, p.lvl)}<div class="b2-path"></div>
+        <div class="pend"><span class="b2-tag" data-pend>${fmtN(p.pend)}</span>${CRATE}</div>
+        <div class="b2-wk ${p.ph}" data-wk="${i}"><div class="bar"><i></i></div><span class="carry">${pr.e}</span><span class="who">${MGR.parcel}</span><span class="b2-call">👆 Récolter</span></div>
+      </div><span class="b2-plvl">Niv <b>${p.lvl}</b></span>
       <div class="b2-sign"><div class="row">
         ${seatHTML("parcel", p.mgr, BX.nice(BAL.parcelMgr(i)), i)}
         <div class="sp" data-a="station" data-k="parcel" data-i="${i}"><h3>${esc(pr.short)} ${i + 1}</h3>
@@ -259,9 +275,9 @@ function farmHTML(){
       <div class="b2-barn" data-a="tab" data-v="barn" data-n="-1"></div>
       <button class="b2-sellbtn" data-a="quick-sell" aria-label="Vendre ta récolte au village"><span class="l">Vendre</span><span class="v">${COIN}<b data-live="sellv">0</b></span></button>
       <div class="b2-ground"></div><div class="b2-road"></div>
-      <button class="b2-tower" data-a="tap-elev" aria-label="Faire monter le monte-charge">${TOWER}<span class="b2-hand" data-hint="elev">👆</span></button>
-      <div class="b2-quai"><div class="sacks" data-n="-1"></div><span class="b2-tag" data-live="quai">${fmtN(f.quai)}</span></div>
-      <button class="b2-cartlane" data-a="tap-cart" aria-label="Faire rouler la charrette"><div class="b2-cart"><span class="ld">0</span>${CART}<span class="pusher">${MGR.cart}</span></div><span class="b2-hand" data-hint="cart">👆</span></button>
+      <button class="b2-tower" data-a="tap-elev" aria-label="Faire monter le monte-charge">${TOWER}<span class="b2-call up" data-hint="elev">👆 Ramasser</span></button>
+      <div class="b2-quai"><span class="b2-tag" data-live="quai">${fmtN(f.quai)}</span><div class="sacks" data-n="-1"></div><small>Dépôt</small></div>
+      <button class="b2-cartlane" data-a="tap-cart" aria-label="Faire rouler la charrette"><div class="b2-cart"><span class="ld">0</span>${CART}<span class="pusher">${MGR.cart}</span><span class="b2-call up" data-hint="cart">👆 Livrer</span></div></button>
     </div>
     ${farmsK.length > 1 ? `<div class="b2-farmsw">${farmsK.map(k => `<button class="${k === key ? "on" : ""}" data-a="farm" data-k="${k}">${P[k].e} ${P[k].label}</button>`).join("")}</div>` : ""}
     ${tip}

diff --git a/index.html b/index.html
@@ -1314,7 +1314,7 @@ if (role === "ami" || role === "romane"){
     loadScript("jeux.js?v=9").catch(() => {});
     loadScript("hub.js?v=10").catch(() => {});
     loadScript("colis.js?v=1").catch(() => {});
-    if (role === "ami") loadScript("baron.js?v=13").catch(() => {});
+    if (role === "ami") loadScript("baron.js?v=14").catch(() => {});
   }catch(e){}
 }
 window.addEventListener("pageshow", e => { if (e.persisted) refreshIfStale(); });
